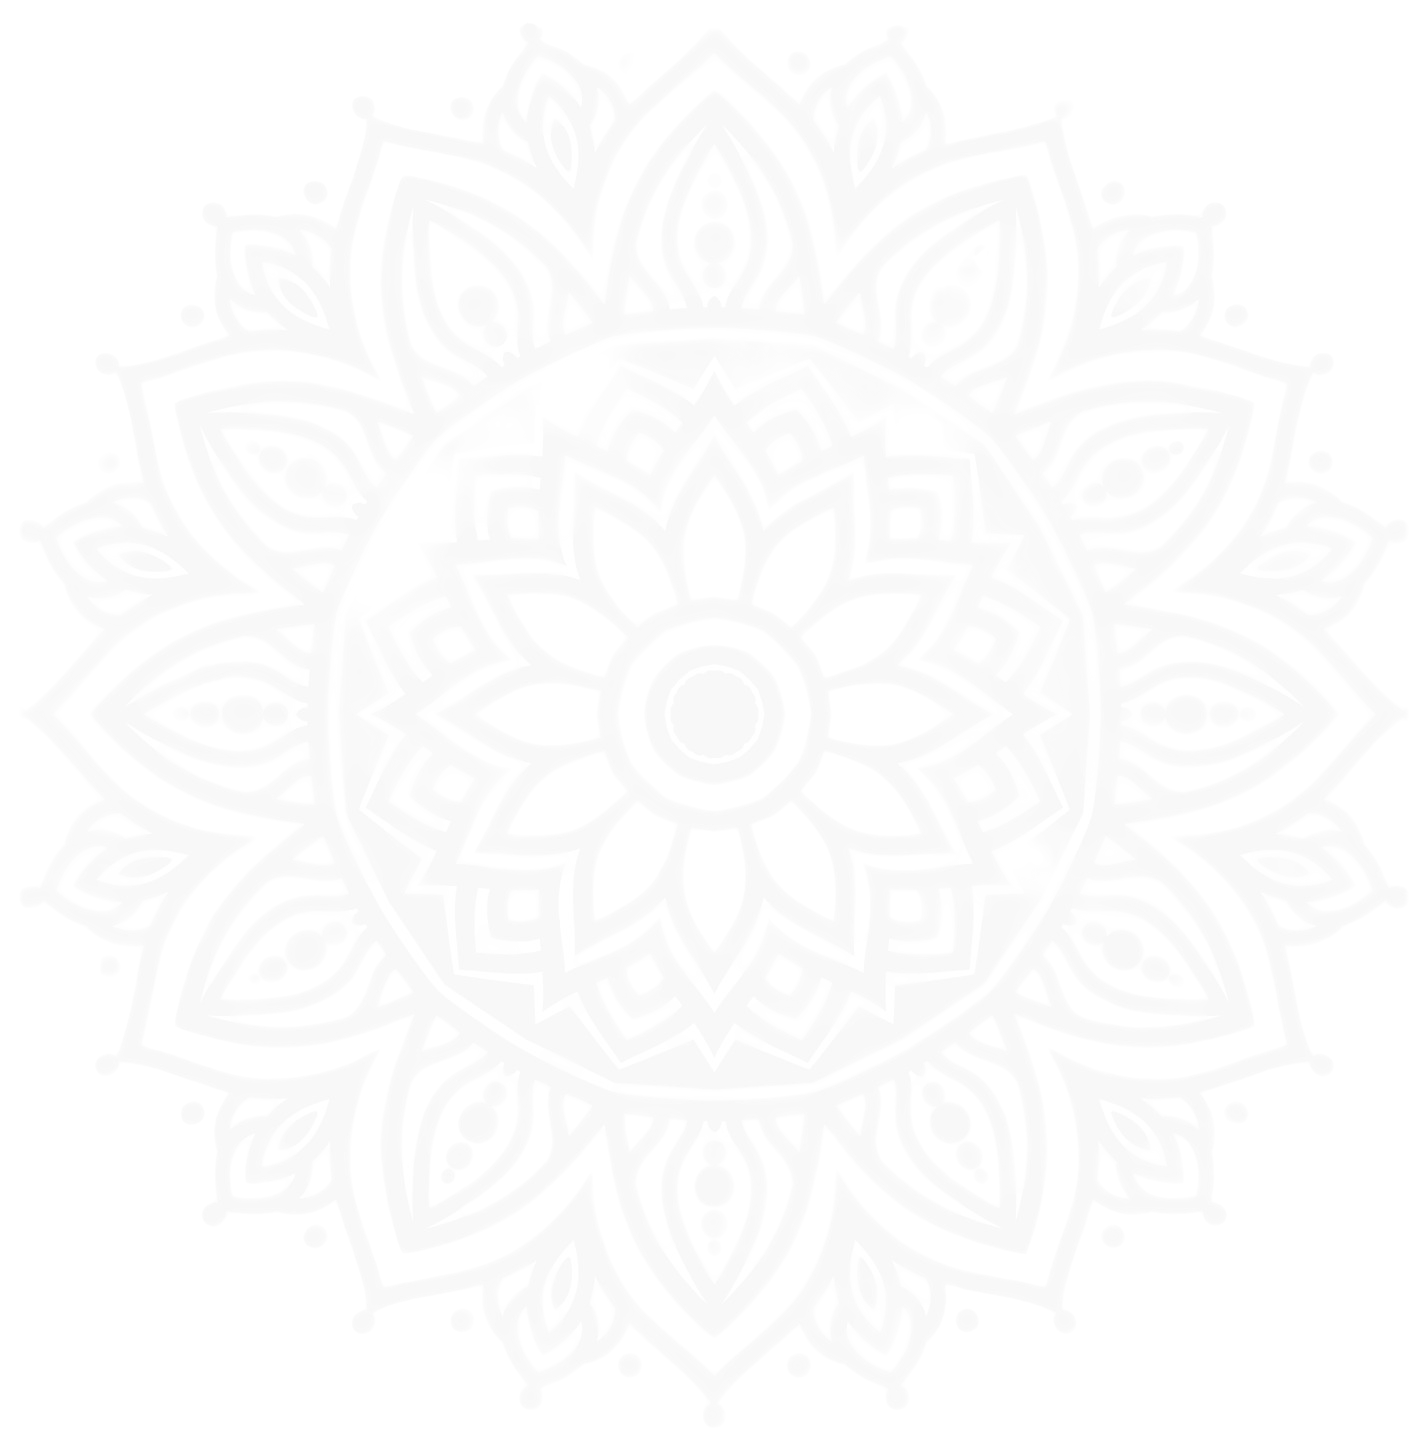
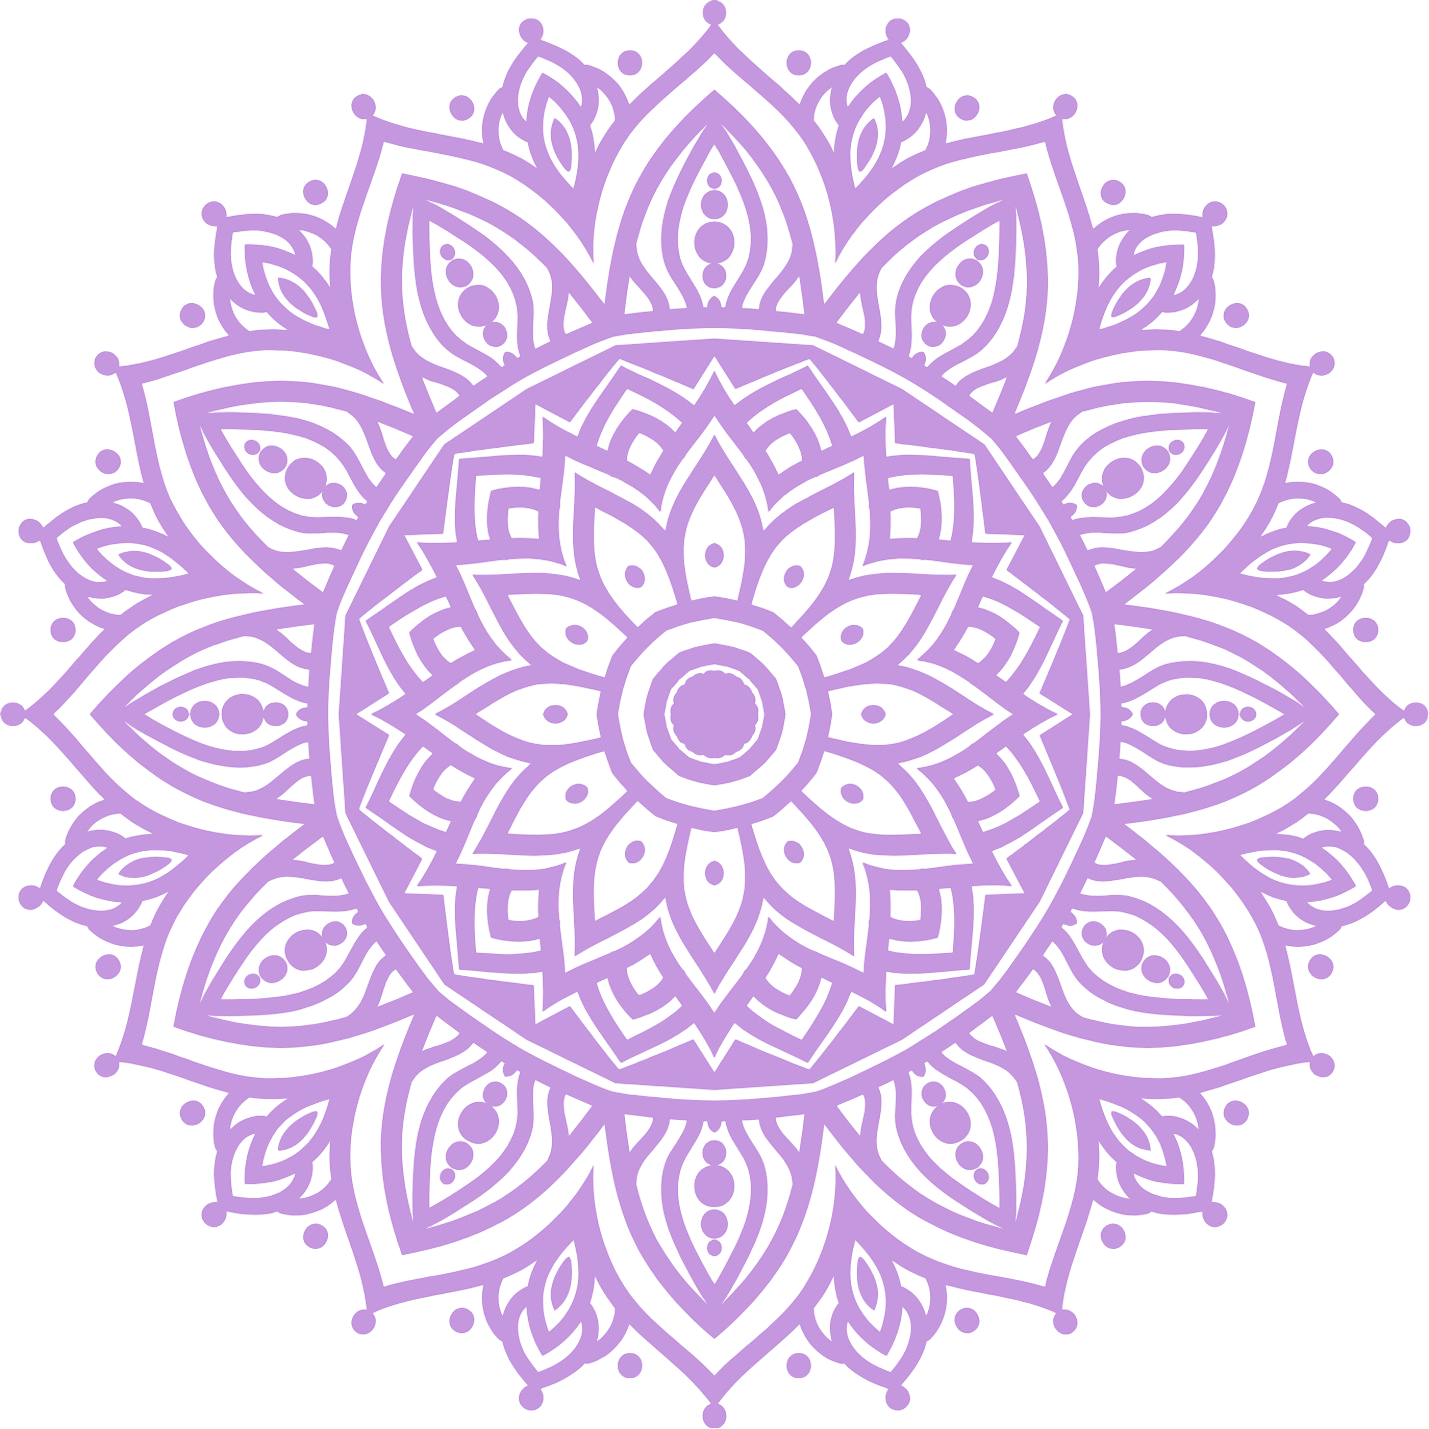
Made TopDiyaRepeat to absolute, Fixed Rangoli image, gave DiwaliWishFontImage a good z-index

diff --git a/src/components/RotatingRangoli.css b/src/components/RotatingRangoli.css
@@ -8,13 +8,13 @@
 }
 
 .rangoli-container.visible {
-  opacity: 0.5; /* Become visible */
+  opacity: 0.2; /* Become visible */
 }
 
 .rotating-rangoli {
-  width: 200px;
-  height: 200px;
-  animation: rotate 10s linear infinite; /* Infinite rotation */
+  width: 500px;
+  height: 500px;
+  animation: rotate 20s linear infinite; /* Infinite rotation */
 }
 
 @keyframes rotate {

diff --git a/src/components/TopDiyaRepeat.css b/src/components/TopDiyaRepeat.css
@@ -1,7 +1,7 @@
 .repeating-container {
   display: flex;
   flex-direction: row;
-  position: relative;
+  position: absolute;
   overflow: hidden; /* Hide overflow */
   animation: slideIn 2s ease forwards; /* Animation properties */
 }

diff --git a/src/components/DiwaliWishFontImage.css b/src/components/DiwaliWishFontImage.css
@@ -3,6 +3,7 @@
   width: 100%;
   height: 100vh; /* Full height */
   overflow: hidden; /* Hide overflow */
+  z-index: 100;
 }
 
 .sliding-image {
